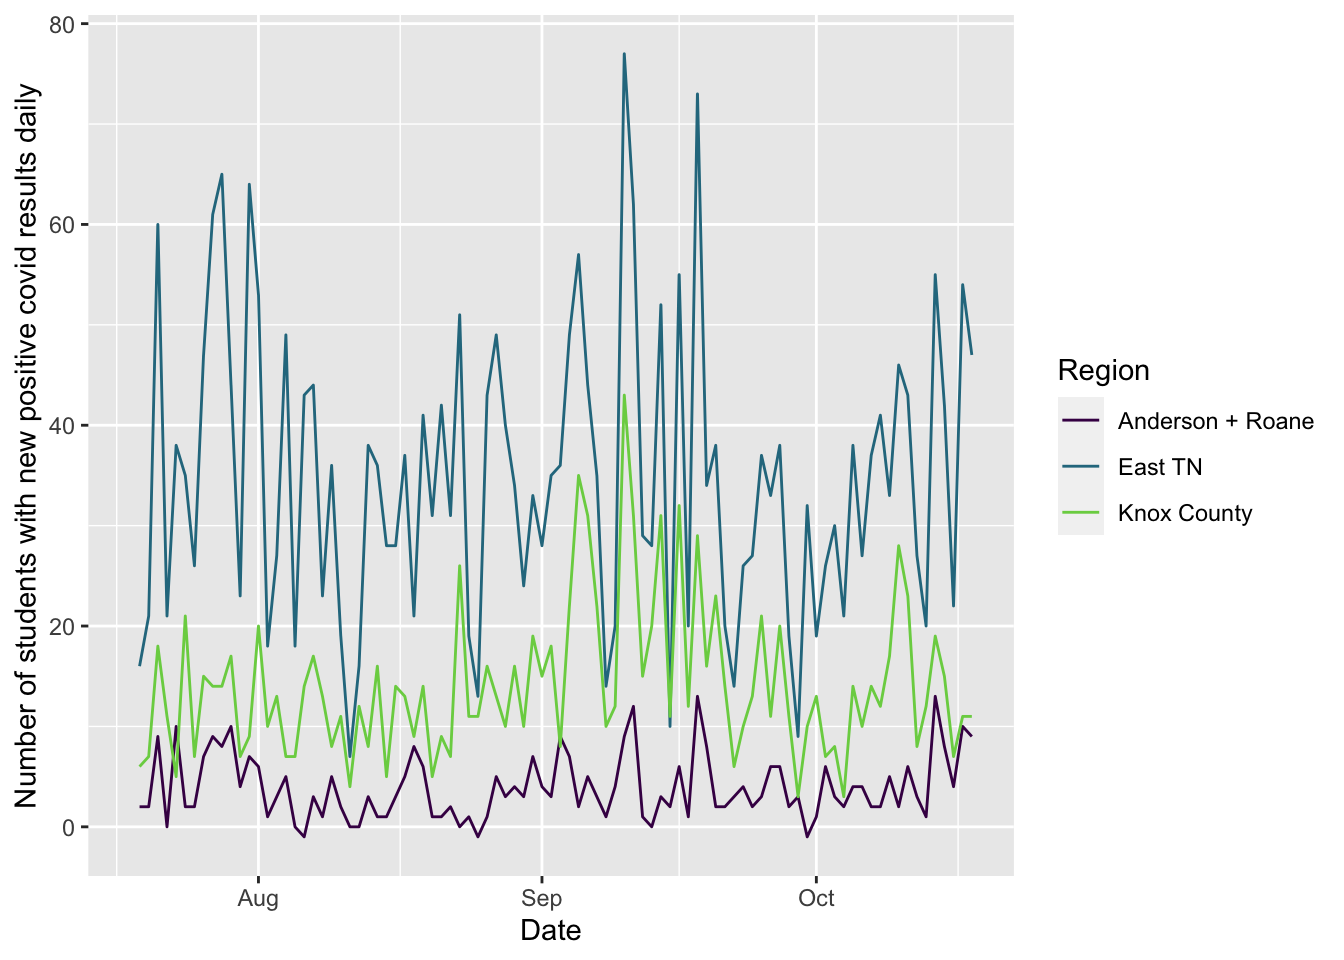
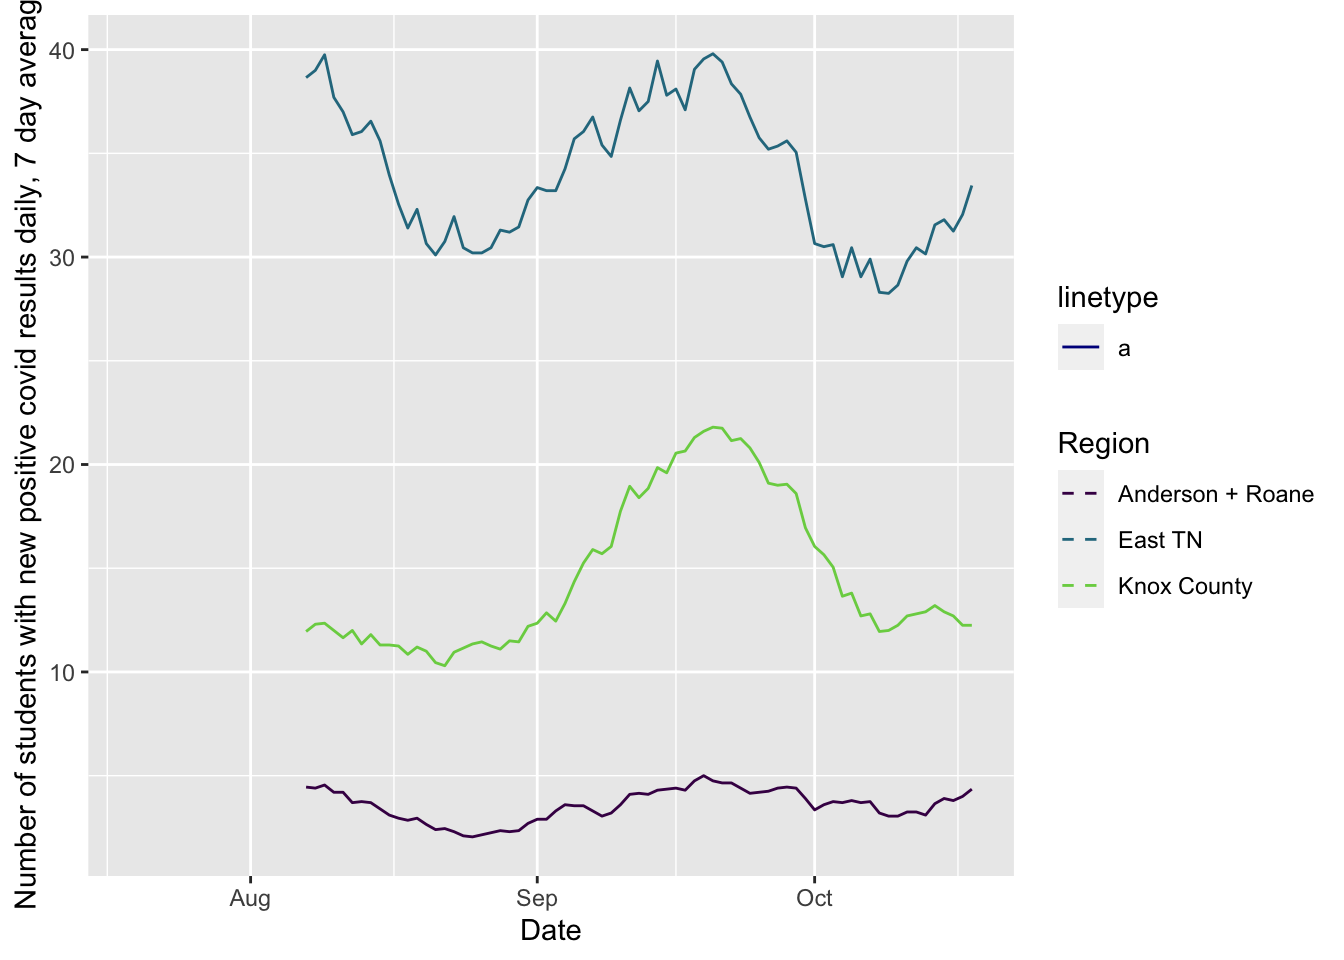
updating site

diff --git a/docs/covid.html b/docs/covid.html
@@ -426,7 +426,7 @@ $(document).ready(function () {
 <li>Info about cases at <a href="#ut">U. of Tennessee, Knoxville</a> (using public information only)</li>
 <li><a href="#webcams">Webcams</a> showing activity at local sites, though not quite at the resolution to point to mask usage or not</li>
 </ul>
-<p>The following plots are created in R using data from <a href="https://covid19datahub.io" class="uri">https://covid19datahub.io</a> (Guidotti, E., Ardia, D., (2020), “COVID-19 Data Hub”, Working paper, doi: 10.13140/RG.2.2.11649.81763), as well as information from Google and the <a href="https://www.tn.gov/health/cedep/ncov/data/downloadable-datasets.html">state of Tennessee dataset page</a> and plotting and analysis using the <code>forecast</code>, <code>ggplot2</code>, <code>reshape2</code>, and <code>dplyr</code> packages. Plots created on 2020-10-18 21:40:08. I use a seven day rolling average for most plots using the <code>geom_ma</code> function of <code>tidyquant</code>.</p>
+<p>The following plots are created in R using data from <a href="https://covid19datahub.io" class="uri">https://covid19datahub.io</a> (Guidotti, E., Ardia, D., (2020), “COVID-19 Data Hub”, Working paper, doi: 10.13140/RG.2.2.11649.81763), as well as information from Google and the <a href="https://www.tn.gov/health/cedep/ncov/data/downloadable-datasets.html">state of Tennessee dataset page</a> and plotting and analysis using the <code>forecast</code>, <code>ggplot2</code>, <code>reshape2</code>, and <code>dplyr</code> packages. Plots created on 2020-10-18 21:51:46. I use a seven day rolling average for most plots using the <code>geom_ma</code> function of <code>tidyquant</code>.</p>
 <h2 id="cases">
 Cases
 </h2>
@@ -461,7 +461,7 @@ Schooling
 <p><img src="covid_files/figure-html/oakridgesevendays-1.png" width="672" /></p>
 <p>Harvard’s Edmond J. Safra Center for Ethics and the Harvard Global Health Institute have created (July 19, 2020) <a href="https://globalhealth.harvard.edu/path-to-zero-schools-achieving-pandemic-resilient-teaching-and-learning-spaces/">guidelines for schools reopening</a> (see also their <a href="https://globalepidemics.org/wp-content/uploads/2020/07/pandemic_resilient_schools_briefing_7.19.20.pdf">full report PDF</a>). They distinguish students by age group: “With COVID-19, people 18 and younger have far lower risk of death, hospitalization, and severe outcomes and are also less likely to get infected. Within this group, students in the younger age band of 10 and under also transmit at lower rates. This last point about lower rates of transmission may also pertain to people 15 and younger, a point that research should clarify in coming weeks. Keeping levels of risk low for young children via pandemic resilient teaching and learning spaces is more readily achievable than doing so for high school age students and the adult educators and staff in the school building.” They provide suggestions on building ventilation, social distancing, and more, and mention the utility of looking at multiple metrics (such as positivity rate, hospitalization, and more), but focus on daily new cases per 100,000 people (with a caution about missing cases if testing is not adequate; for example, if positivity rate is above 10%). The plot below has summaries of their recommendations for priority for which grade levels can meet in person, <strong>if there are conditions for pandemic resistant teaching and learning</strong>. The black line is the rolling seven day average of new cases per day for the counties containing Oak Ridge (Roane and Anderson), the blue line is this smoothed.</p>
 <p><img src="covid_files/figure-html/harvardstandards-1.png" width="672" /></p>
-<p>Tennessee now breaks out covid test results for school age children (age 5-18). The number of tests in this age group and the underlying population size aren’t known to me, so things like positivity rate and proportion of students infected cannot be determined, but the raw number of students infected can be shown:</p>
+<p>Tennessee now breaks out covid test results for school age children (age 5-18). The number of tests in this age group and the underlying population size aren’t known to me, so things like positivity rate and proportion of students infected cannot be determined, but the raw number of students infected can be shown (doing a seven day average):</p>
 <p><img src="covid_files/figure-html/studentinfections-1.png" width="672" /><img src="covid_files/figure-html/studentinfections-2.png" width="672" /></p>
 <hr />
 <h2 id="hospitalization">
@@ -469,7 +469,7 @@ Hospitalization
 </h2>
 <p>As of the last time the data were updated (likely 4 days ago), regional hospitals had 38 ICU beds available of 278 total, and 143 available ventilators out of 245 total. This is based on 19 acute care hospitals in the East TN region; based on the 14 counties these hospitals are in, these serve at least 1,235,720 people. When a line hits 100%, the local hospitals are theoretically full for that resource (for all patients, not just covid patients), though there is surge capacity on top of this. Note that these data are updated only weekly, so current conditions maybe be much better or worse than these plots show. Data on capacity from Knox County’s dashboard, data on hospitalizations and testing over time from the state data.</p>
 <p><img src="covid_files/figure-html/hospitalcapacityplot-1.png" width="672" /></p>
-<p>Trends in hospitalization of covid patients over time. The vertical dotted line shows the last day with updated capacity information, when there were 38 ICU beds available (ignoring surge capacity) for people in the East Tennessee region.</p>
+<p>Trends in hospitalization of covid patients over time. The vertical dotted line shows the last day with updated capacity information, when there were 38 ICU beds available (ignoring surge capacity) for people in the East Tennessee region. The seven day average is shown.</p>
 <p><img src="covid_files/figure-html/plotsD-1.png" width="672" /></p>
 <hr />
 <h2 id="ages">

diff --git a/docs/covid2.html b/docs/covid2.html
@@ -426,7 +426,7 @@ $(document).ready(function () {
 <li>Info about cases at <a href="#ut">U. of Tennessee, Knoxville</a> (using public information only)</li>
 <li><a href="#webcams">Webcams</a> showing activity at local sites, though not quite at the resolution to point to mask usage or not</li>
 </ul>
-<p>The following plots are created in R using data from <a href="https://covid19datahub.io" class="uri">https://covid19datahub.io</a> (Guidotti, E., Ardia, D., (2020), “COVID-19 Data Hub”, Working paper, doi: 10.13140/RG.2.2.11649.81763), as well as information from Google and the <a href="https://www.tn.gov/health/cedep/ncov/data/downloadable-datasets.html">state of Tennessee dataset page</a> and plotting and analysis using the <code>forecast</code>, <code>ggplot2</code>, <code>reshape2</code>, and <code>dplyr</code> packages. Plots created on 2020-10-18 21:41:50. I use a seven day rolling average for most plots using the <code>geom_ma</code> function of <code>tidyquant</code>.</p>
+<p>The following plots are created in R using data from <a href="https://covid19datahub.io" class="uri">https://covid19datahub.io</a> (Guidotti, E., Ardia, D., (2020), “COVID-19 Data Hub”, Working paper, doi: 10.13140/RG.2.2.11649.81763), as well as information from Google and the <a href="https://www.tn.gov/health/cedep/ncov/data/downloadable-datasets.html">state of Tennessee dataset page</a> and plotting and analysis using the <code>forecast</code>, <code>ggplot2</code>, <code>reshape2</code>, and <code>dplyr</code> packages. Plots created on 2020-10-18 21:53:24. I use a seven day rolling average for most plots using the <code>geom_ma</code> function of <code>tidyquant</code>.</p>
 <h2 id="cases">
 Cases
 </h2>
